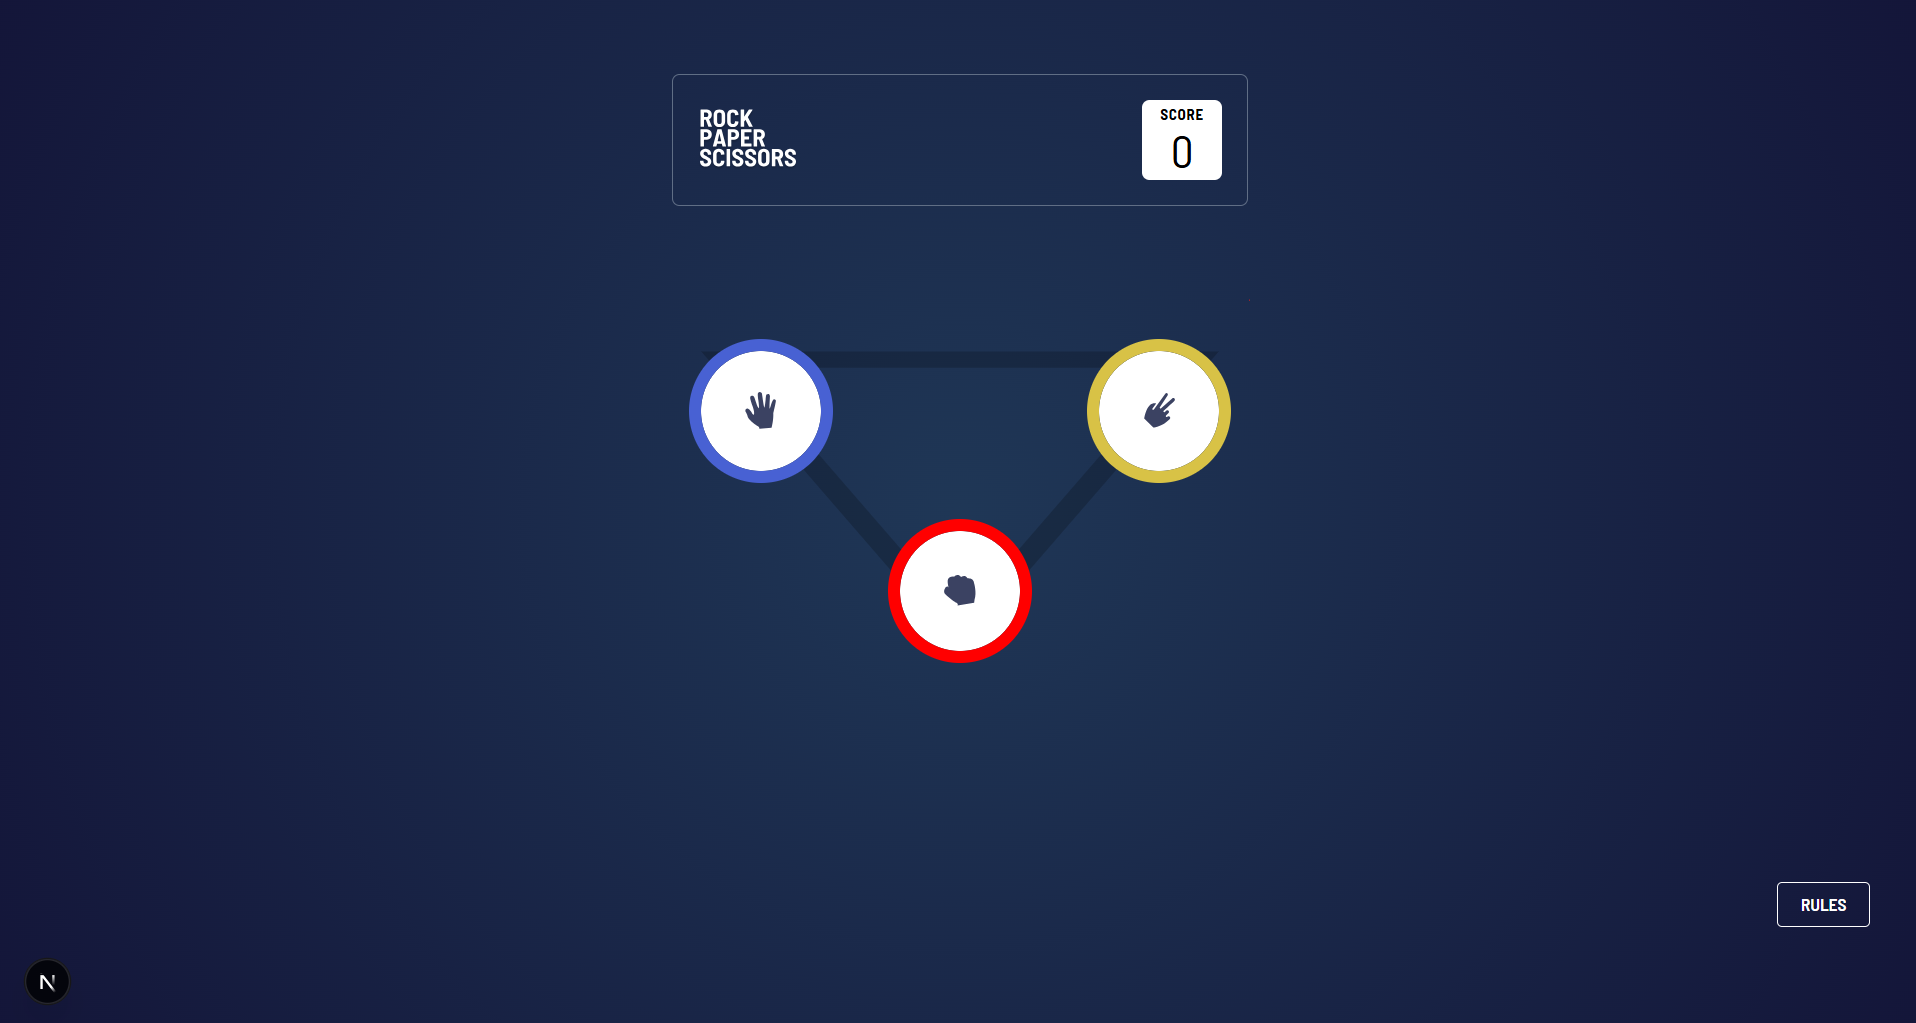
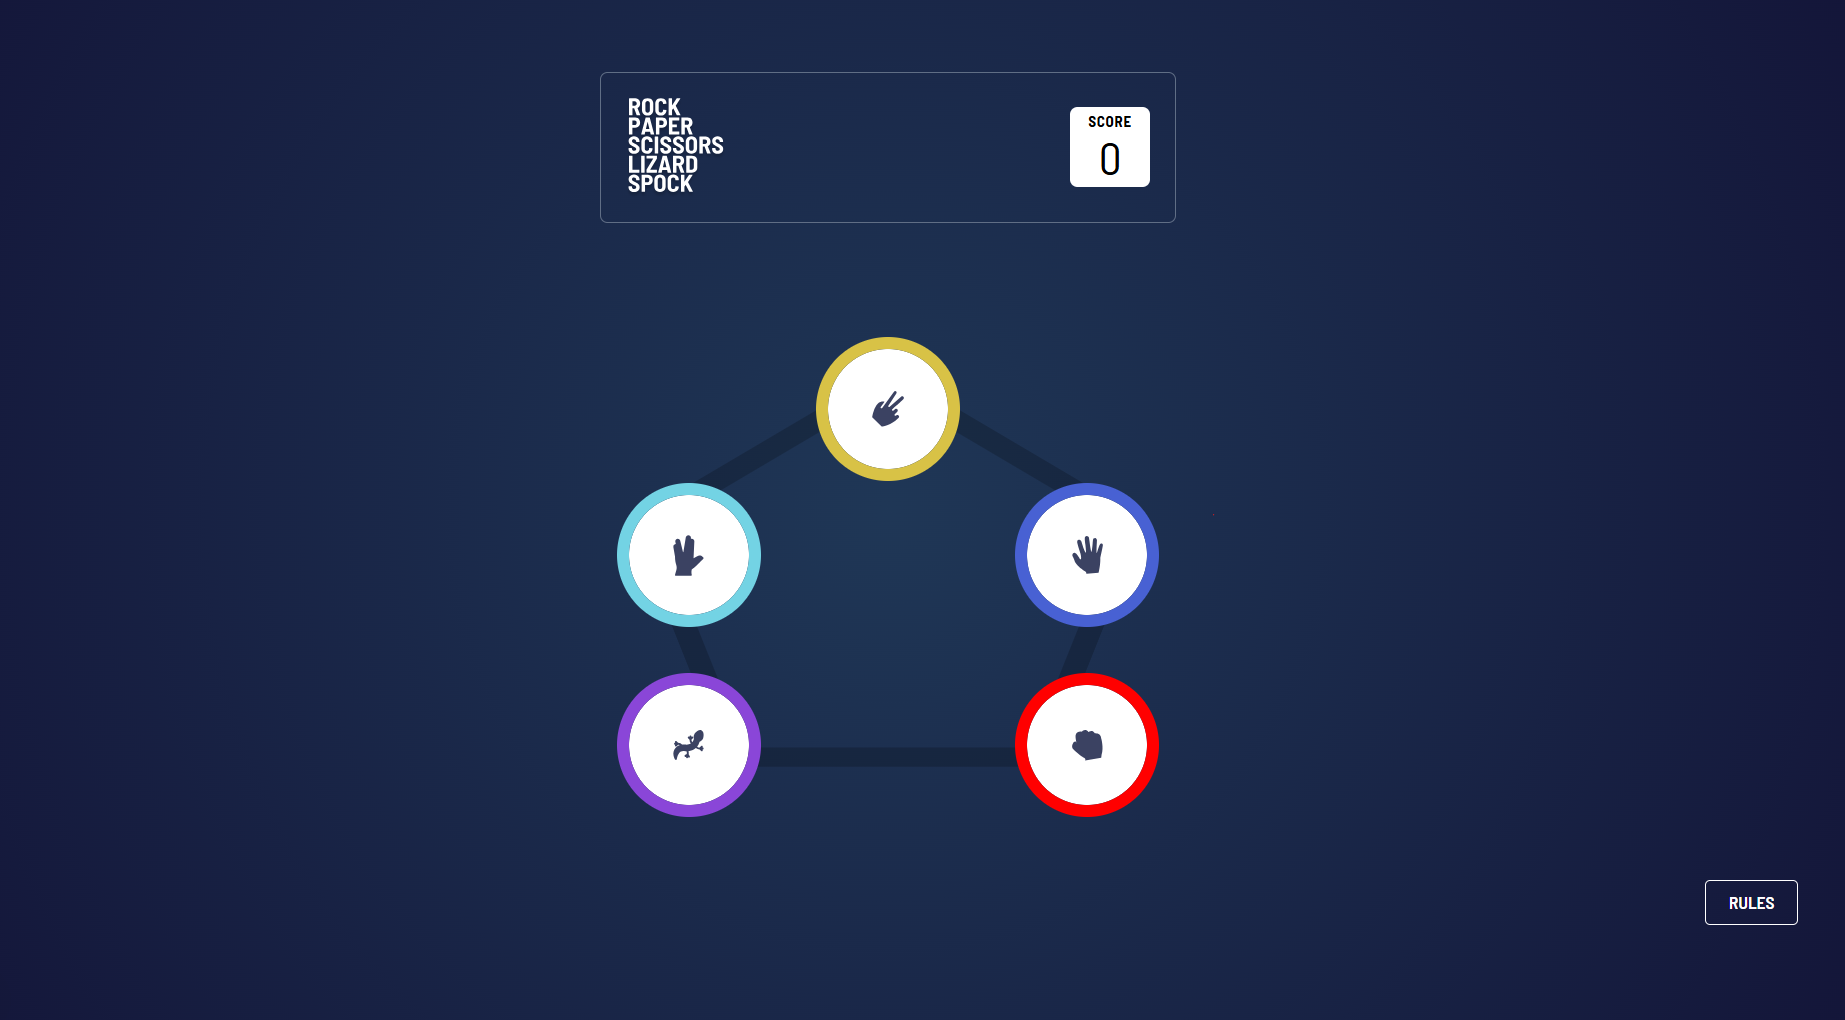
finish bonus version

diff --git a/app/assets/main.tsx b/app/assets/main.tsx
@@ -14,8 +14,6 @@ import {
 import rockImage from "../assets/icon-rock.svg";
 import paperImage from "../assets/icon-paper.svg";
 import scissorImage from "../assets/icon-scissors.svg";
-import spockImage from "../assets/icon-spock.svg";
-import lizardImage from "../assets/icon-lizard.svg";
 import GameCard from "../components/common/game-card";
 import { useDisclosure, useMediaQuery } from "@mantine/hooks";
 import Image from "next/image";
@@ -28,11 +26,11 @@ import { cssBreakPoints } from "../constants/main";
 import { GameCard as GameCardType, GameCardValue } from "../models/main";
 const Main = () => {
   const gameCards: GameCardType[] = [
-    { image: scissorImage, pos: "top", title: "scissors" },
-    { image: spockImage, pos: "first-left", title: "spock" },
-    { image: paperImage, pos: "first-right", title: "paper" },
-    { image: lizardImage, pos: "second-left", title: "lizard" },
     { image: rockImage, pos: "second-right", title: "rock" },
+    { image: paperImage, pos: "first-right", title: "paper" },
+    { image: scissorImage, pos: "top", title: "scissors" },
+    { image: scissorImage, pos: "first-left", title: "spock" },
+    { image: scissorImage, pos: "second-left", title: "lizard" },
   ];
 
   const [isRulesModalOpen, { open: openRulesModal, close: closeRulesModal }] =
@@ -53,23 +51,12 @@ const Main = () => {
       setPickedByHouse(housePick);
       if (isUserCardWinner(pickedByUser as GameCardValue, housePick)) {
         setPlayerWins(true);
-        localStorage.setItem("score", String(score + 1));
         return setScore((prev) => prev + 1);
       }
       setPlayerWins(false);
       setScore((prev) => (prev === 0 ? 0 : prev - 1));
-      localStorage.setItem(
-        "score",
-        String(score === 0 ? 0 : String(score - 1))
-      );
     }
   };
-
-  useEffect(() => {
-    if (localStorage.getItem("score")) {
-      setScore(Number(localStorage.getItem("score")));
-    }
-  }, []);
 
   useEffect(() => {
     const timer = setTimeout(() => {
@@ -253,7 +240,9 @@ const Main = () => {
                 }}
               >
                 <GameCard
-                  card={gameCards.find((x) => x.pos === "top") as GameCardType}
+                  card={
+                    gameCards.find((x) => x.pos === "bottom") as GameCardType
+                  }
                 />
               </Box>
               <Flex justify={"space-between"} className="w-full">

diff --git a/app/lib/utils/main.ts b/app/lib/utils/main.ts
@@ -1,7 +1,9 @@
 import { GameCardValue } from "@/app/models/main";
 
 export const pickCard: (x: GameCardValue) => GameCardValue = (userPick) => {
-  const choices = ["rock", "paper", "scissors"].filter((x) => x !== userPick);
+  const choices = ["rock", "paper", "scissors", "spock", "lizard"].filter(
+    (x) => x !== userPick
+  );
   const randomIndex = Math.floor(Math.random() * choices.length);
   return choices[randomIndex] as GameCardValue;
 };
@@ -10,13 +12,14 @@ export const isUserCardWinner: (
   x: GameCardValue,
   y: GameCardValue
 ) => boolean = (userPick, housePick) => {
-  //rule: rock beats scissor, scissor beats paper, paper beats rock
   let userWins = false;
   console.log("game", userPick, housePick);
   if (
-    (userPick === "rock" && housePick === "scissors") ||
-    (userPick === "scissors" && housePick === "paper") ||
-    (userPick === "paper" && housePick === "rock")
+    (userPick === "rock" && ["scissors", "lizard"].includes(housePick)) ||
+    (userPick === "scissors" && ["paper", "lizard"].includes(housePick)) ||
+    (userPick === "paper" && ["rock", "spock"].includes(housePick)) ||
+    (userPick === "spock" && ["scissors", "rock"].includes(housePick)) ||
+    (userPick === "lizard" && ["spock", "paper"].includes(housePick))
   )
     userWins = true;
   return userWins;

diff --git a/app/globals.css b/app/globals.css
@@ -169,6 +169,13 @@ body {
   background-size: 100% 100%;
 }
 
+.bg-pentagon{
+    background-image: url("assets/bg-pentagon.svg");
+  background-repeat: no-repeat;
+  background-position: center;
+  background-size: 100% 100%;
+}
+
 .game-card-rock {
   outline: 10px red solid;
 }
@@ -179,6 +186,14 @@ body {
 
 .game-card-scissor {
   outline: 10px rgb(216, 194, 70) solid;
+}
+
+.game-card-spock {
+  outline: 10px rgb(115, 211, 228) solid;
+}
+
+.game-card-lizard {
+  outline: 10px rgb(138, 70, 216) solid;
 }
 
 .winner-bg {

diff --git a/app/components/common/game-card.tsx b/app/components/common/game-card.tsx
@@ -11,7 +11,11 @@ const GameCard = ({ card }: { card: GameCard }) => {
           ? "game-card-rock"
           : card?.title === "paper"
           ? "game-card-paper"
-          : "game-card-scissor"
+          : card?.title === "scissors"
+          ? "game-card-scissor"
+          : card?.title === "spock"
+          ? "game-card-spock"
+          : "game-card-lizard"
       }`}
     >
       <Image src={card?.image} alt="Card Image" width={25} height={25} />

diff --git a/app/layout.tsx b/app/layout.tsx
@@ -3,8 +3,8 @@ import "./globals.css";
 import "@mantine/core/styles.css";
 import { MantineProvider } from "@mantine/core";
 export const metadata: Metadata = {
-  title: "Rock Paper Scissors",
-  description: "Rock Paper Scissors Game",
+  title: "Rock Paper Scissors Spock Lizard Game",
+  description: "Rock Paper Scissors Spock Lizard Game",
   icons: {
     icon: "../public/assets/favicon.png",
   },

diff --git a/app/models/main.ts b/app/models/main.ts
@@ -1,6 +1,6 @@
-export type GameCardValue = "rock" | "paper" | "scissors";
+export type GameCardValue = "rock" | "paper" | "scissors" | "spock" | "lizard";
 export interface GameCard {
   title: GameCardValue;
   image: string;
-  pos: "top" | "bottom";
+  pos: "top" | "first-left" | "first-right" | "second-left" | "second-right";
 }

diff --git a/README.md b/README.md
@@ -53,7 +53,7 @@ What I Learned While I Implemented the Rock, Paper, Sissors solution
 
 - Used Tailwind CSS to build responsive layouts across different screen sizes
 - Managed game state in React and persisted the score using localStorage
-- Implemented game logic for Rock, Paper, Scissors against a computer opponent
+- Implemented game logic for Rock, Paper, Scissors, Spock, Lizard against a computer opponent
 - Gained experience using Mantine UI components for fast and consistent styling
 - Practiced scaling game logic with additional conditions cleanly and modularly
 - Improved understanding of conditional rendering and reusable UI components
